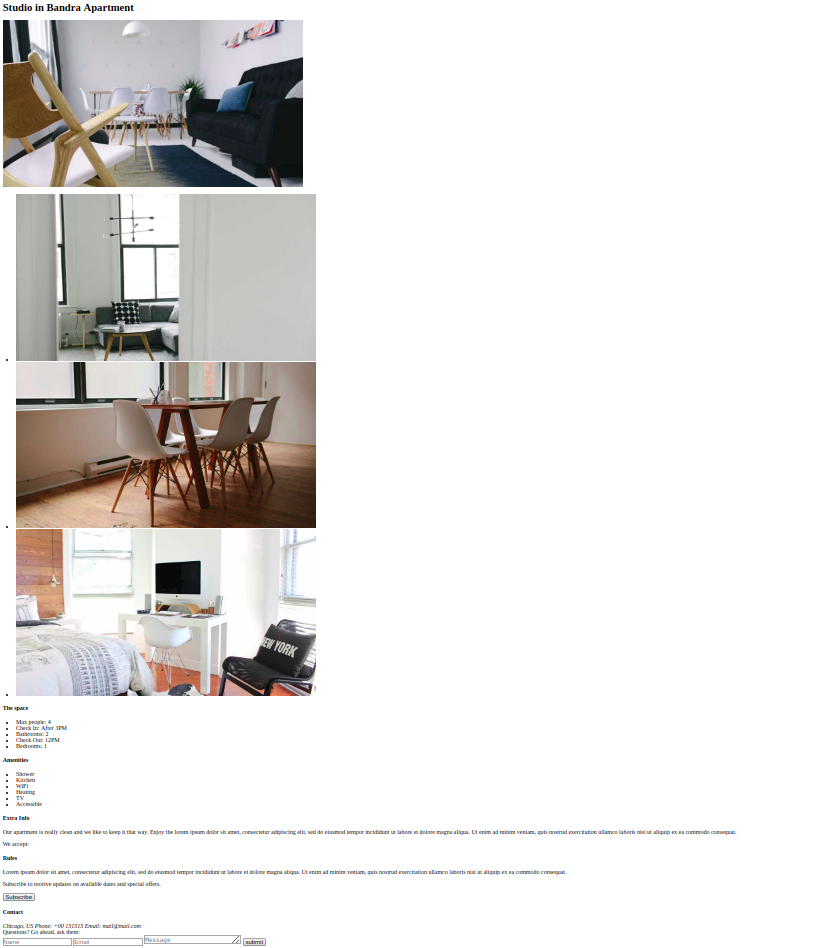
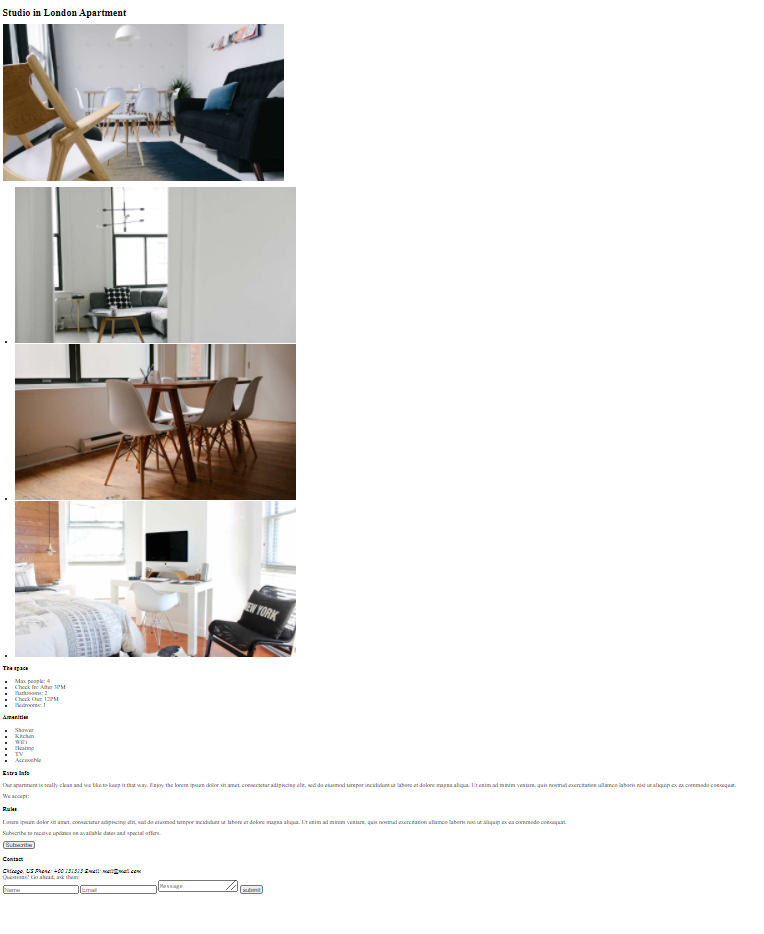
Updated London location

Changed region(s): [[0.0, 0.0, 0.9031, 1.0], [0.9332, 0.8383, 0.9634, 0.8694]]

diff --git a/FEWD/sprint_1/2.Basics_of_CSS/2.3 - CSS Colors, Text formatting, Background and Lists.md b/FEWD/sprint_1/2.Basics_of_CSS/2.3 - CSS Colors, Text formatting, Background and Lists.md
@@ -1,6 +1,6 @@
 ## Overview
 
-In the previous section we learnt about basic box model. This section will introduce you to CSS Text formatting, colors, list styling and Pseudos. The idea about this concept is you give you glimpus that how you can create wonderful page using css. In the html you already learnt that text formating and listing but for coding style purpose the code looks very messy so we are going to create the .css file and the changes that we need to do on the page. After this section your page look like this.
+In the previous section we learnt about basic box model. This section will introduce you to CSS Text formatting, colors, list styling and Pseudos. The idea about this concept is you give you glimpse that how you can create wonderful page using css. In the html you already learnt that text formating and listing but for coding style purpose the code looks very messy so we are going to create the .css file and the changes that we need to do on the page. After this section your page look like this.
 
 ---
 
@@ -47,9 +47,9 @@ CSS text formatting include following properties:
 - Please click on the links below to practice what you have learnt:
   - [Font sizes](https://www.htmldog.com/examples/fontsizes/)
   - [Font families](https://www.htmldog.com/examples/fontfamilies/)
-  - [The official documentation to getting started with Google Fonts](https://developers.google.com/fonts/docs/getting_started)
-  - [Learn about hosting fonts content delivery network to download fonts faster. Though in this post we are migrating google fonts, the process would be the same for your chosen fonts](https://www.keycdn.com/blog/google-fonts-cdn)
-  - [Though, the purpose of this guide is to show how to load and use font locally, it covers few other methods too](https://www.pagecloud.com/blog/how-to-add-custom-fonts-to-any-website)
+  - The official documentation to [getting started with Google Fonts](https://developers.google.com/fonts/docs/getting_started)
+  - Learn about [hosting fonts content delivery network to download fonts faster. ](https://www.keycdn.com/blog/google-fonts-cdn)Though in this post we are migrating google fonts, the process would be the same for your chosen fonts
+  -Leern[how to load and use font locally](https://www.pagecloud.com/blog/how-to-add-custom-fonts-to-any-website)
   - [Text styling](https://www.htmldog.com/examples/case/)
   - [Text alignment and spacing](https://www.htmldog.com/examples/textalign/)
 
@@ -82,7 +82,7 @@ Pseudo-classes let you apply a style to an element not only in relation to the c
 ### What you must do?
 
 - Read about [how to add some special effects to CSS selectors](https://www.tutorialspoint.com/css/css_pseudo_elements.htm)
-- Read about syntax of pseudo-element.[how to apply or change the state of a selector or element](https://www.tutorialspoint.com/css/css_pseudo_classes.htm)
+- Read about syntax of pseudo-element and [how to apply or change the state of a selector or element](https://www.tutorialspoint.com/css/css_pseudo_classes.htm)
 
 ---
 

diff --git a/FEWD/sprint_1/2.Basics_of_CSS/2.7 -  CSS3 Transition, Transformation and Gradient.md b/FEWD/sprint_1/2.Basics_of_CSS/2.7 -  CSS3 Transition, Transformation and Gradient.md
@@ -23,7 +23,7 @@ Normally when the value of a CSS property changes, the rendered result is instan
 
 ### What you must do?
 
-- The transition property, however, is much more powerful, allowing smooth animation (rather than a jump from one state to another)[A complete guide to CSS transitions](https://www.htmldog.com/guides/css/advanced/transitions/). Do checkout the examples section in the link.
+- The transition property, however, is much more powerful, allowing smooth animation (rather than a jump from one state to another). Checkout [a complete guide to CSS transitions](https://www.htmldog.com/guides/css/advanced/transitions/). Do checkout the examples section in the link.
 
 ### CSS Transform
 
@@ -33,7 +33,7 @@ This coordinate space can be modified with the `transform` property. Using trans
 
 #### What you must do?
 
-- [A complete guide to CSS transforms](https://www.htmldog.com/guides/css/advanced/transformations/)
+- Go through [a complete guide to CSS transforms](https://www.htmldog.com/guides/css/advanced/transformations/)
 
 ### CSS Gradients
 
@@ -50,7 +50,7 @@ CSS defines two types of gradients:
 
 #### What you must do?
 
-- [A complete guide to CSS Gradients](https://www.htmldog.com/guides/css/advanced/gradients/)
+- Go through [a complete guide to CSS Gradients](https://www.htmldog.com/guides/css/advanced/gradients/)
 
 ---
 
@@ -59,8 +59,8 @@ CSS defines two types of gradients:
 This section contains some additional helpful links.
 
 - The transition property is a shorthand property used to represent up to four transition-related longhand properties [Learn Transitions with examples](https://css-tricks.com/almanac/properties/t/transition/)
-- The transform property allows you to visually manipulate an element by skewing, rotating, translating, or scaling[Learn Transform with examples](https://css-tricks.com/almanac/properties/t/transform/)
-- Gradients are typically one color that fades into another, but in CSS you can control every aspect of how that happens, from the direction to the colors (as many as you want) to where those color changes happen. Let's go through it all[Learn Gradients with example](https://css-tricks.com/css3-gradients/)
+- The transform property allows you to visually manipulate an element by skewing, rotating, translating, or scaling. [Learn Transform with examples](https://css-tricks.com/almanac/properties/t/transform/)
+- Gradients are typically one color that fades into another, but in CSS you can control every aspect of how that happens, from the direction to the colors (as many as you want) to where those color changes happen. Let's go through it all [Learn Gradients with example](https://css-tricks.com/css3-gradients/)
 
 ---
 ## Summary

diff --git a/FEWD/sprint_1/2.Basics_of_CSS/2.5 -  CSS Layout and Positioning.md b/FEWD/sprint_1/2.Basics_of_CSS/2.5 -  CSS Layout and Positioning.md
@@ -52,11 +52,11 @@ As per our experience, we strongly suggest you to not use the `float` property a
 
 This section contains some additional helpful links.
 
-- [Use the positioning playground to see how boxes are layed out when it's positioned based on the learnt property](https://www.bartbusschots.ie/pbsdemos/pbs8-PositioningPlayground/)
-- [Another playground to learn positioning](http://www.mustbebuilt.co.uk/demo/css/position-playground.html)
-- [A codepen playground to play with floats](https://codepen.io/GilDavid/full/WbYQPO)
-- [Playground to learn CSS Grid](https://cssgridgarden.com/)
-- [Overview/Understand the performance of webpage and various attributes measured](https://gtmetrix.com/)
+- Use the positioning playground to see [how boxes are layed out when it's positioned based on the learnt property](https://www.bartbusschots.ie/pbsdemos/pbs8-PositioningPlayground/)
+- Another playground to learn [positioning](http://www.mustbebuilt.co.uk/demo/css/position-playground.html)
+- A codepen playground to play with [floats](https://codepen.io/GilDavid/full/WbYQPO)
+- Playground to [learn CSS Grid](https://cssgridgarden.com/)
+- Overview of/Understand the [performance of webpage and various attributes measured](https://gtmetrix.com/)
 
 ---
 ## Summary

diff --git a/FEWD/sprint_1/2.Basics_of_CSS/2.8 - CSS3 Animations.md b/FEWD/sprint_1/2.Basics_of_CSS/2.8 - CSS3 Animations.md
@@ -27,9 +27,9 @@ There are three key advantages to CSS animations over traditional script-driven 
 
 #### What you must do?
 
-- Adding animation to your website or app is a powerful way to draw users attention to important areas of your product and add interest to your interface.[A beginners guide to CSS animations](https://thoughtbot.com/blog/css-animation-for-beginners)
+- Adding animation to your website or app is a powerful way to draw users attention to important areas of your product and add interest to your interface. Go through [a beginners guide to CSS animations](https://thoughtbot.com/blog/css-animation-for-beginners)
 
--Learn and  practice the css animation with the help of [A visual guide to applying CSS Animations](https://marksheet.io/css-animations.html)
+-Learn and  practice the css animation with the help of [a visual guide to applying CSS Animations](https://marksheet.io/css-animations.html)
 
 - Previously, we had learnt about transitions and now we are discusing animation. Go through this crash course and code along to get an in-depth view of [animations and transitions](https://www.youtube.com/watch?v=zHUpx90NerM)
 

diff --git a/FEWD/sprint_1/2.Basics_of_CSS/2.2 - CSS Box Model & Sizing.md b/FEWD/sprint_1/2.Basics_of_CSS/2.2 - CSS Box Model & Sizing.md
@@ -1,6 +1,6 @@
 ## Overview
 
-In the previous topic you have learnt the asic building block of css. This section will introduce you to CSS Box Model and the properties that contribute to the model. Everything can be represented in a box on the webpage and there are properties like width, height, margin, border, padding and their positions that determine the box model. As in the html you have added the images now in this topic you will able to ajust them.
+In the previous topic you have learnt the basic building block of css. This section will introduce you to CSS Box Model and the properties that contribute to the model. Everything can be represented in a box on the webpage and there are properties like width, height, margin, border, padding and their positions that determine the box model. As in the html you have added the images now in this topic you will able to ajust them.
 
 ---
 

diff --git a/FEWD/sprint_1/2.Basics_of_CSS/2.10 - Wrap up.md b/FEWD/sprint_1/2.Basics_of_CSS/2.10 - Wrap up.md
@@ -19,6 +19,6 @@ At the end of this concept, you should now have a clear idea about how to create
 
 After completing this unit, you will be able to position the image, put the element in the perticular boxes and you can format the text. The page you are creating would look like the below given image:
 
-![studio](https://github.com/greyatom-school/the-minerva-project/raw/master/FEWD/sprint_1/project/template.png)
+![ark studio](https://github.com/greyatom-school/the-minerva-project/raw/master/FEWD/sprint_1/project/img/template.jpg)
 
 Our sprint 1 ends here and we believe that you can confidently create sites using HTML and CSS.
